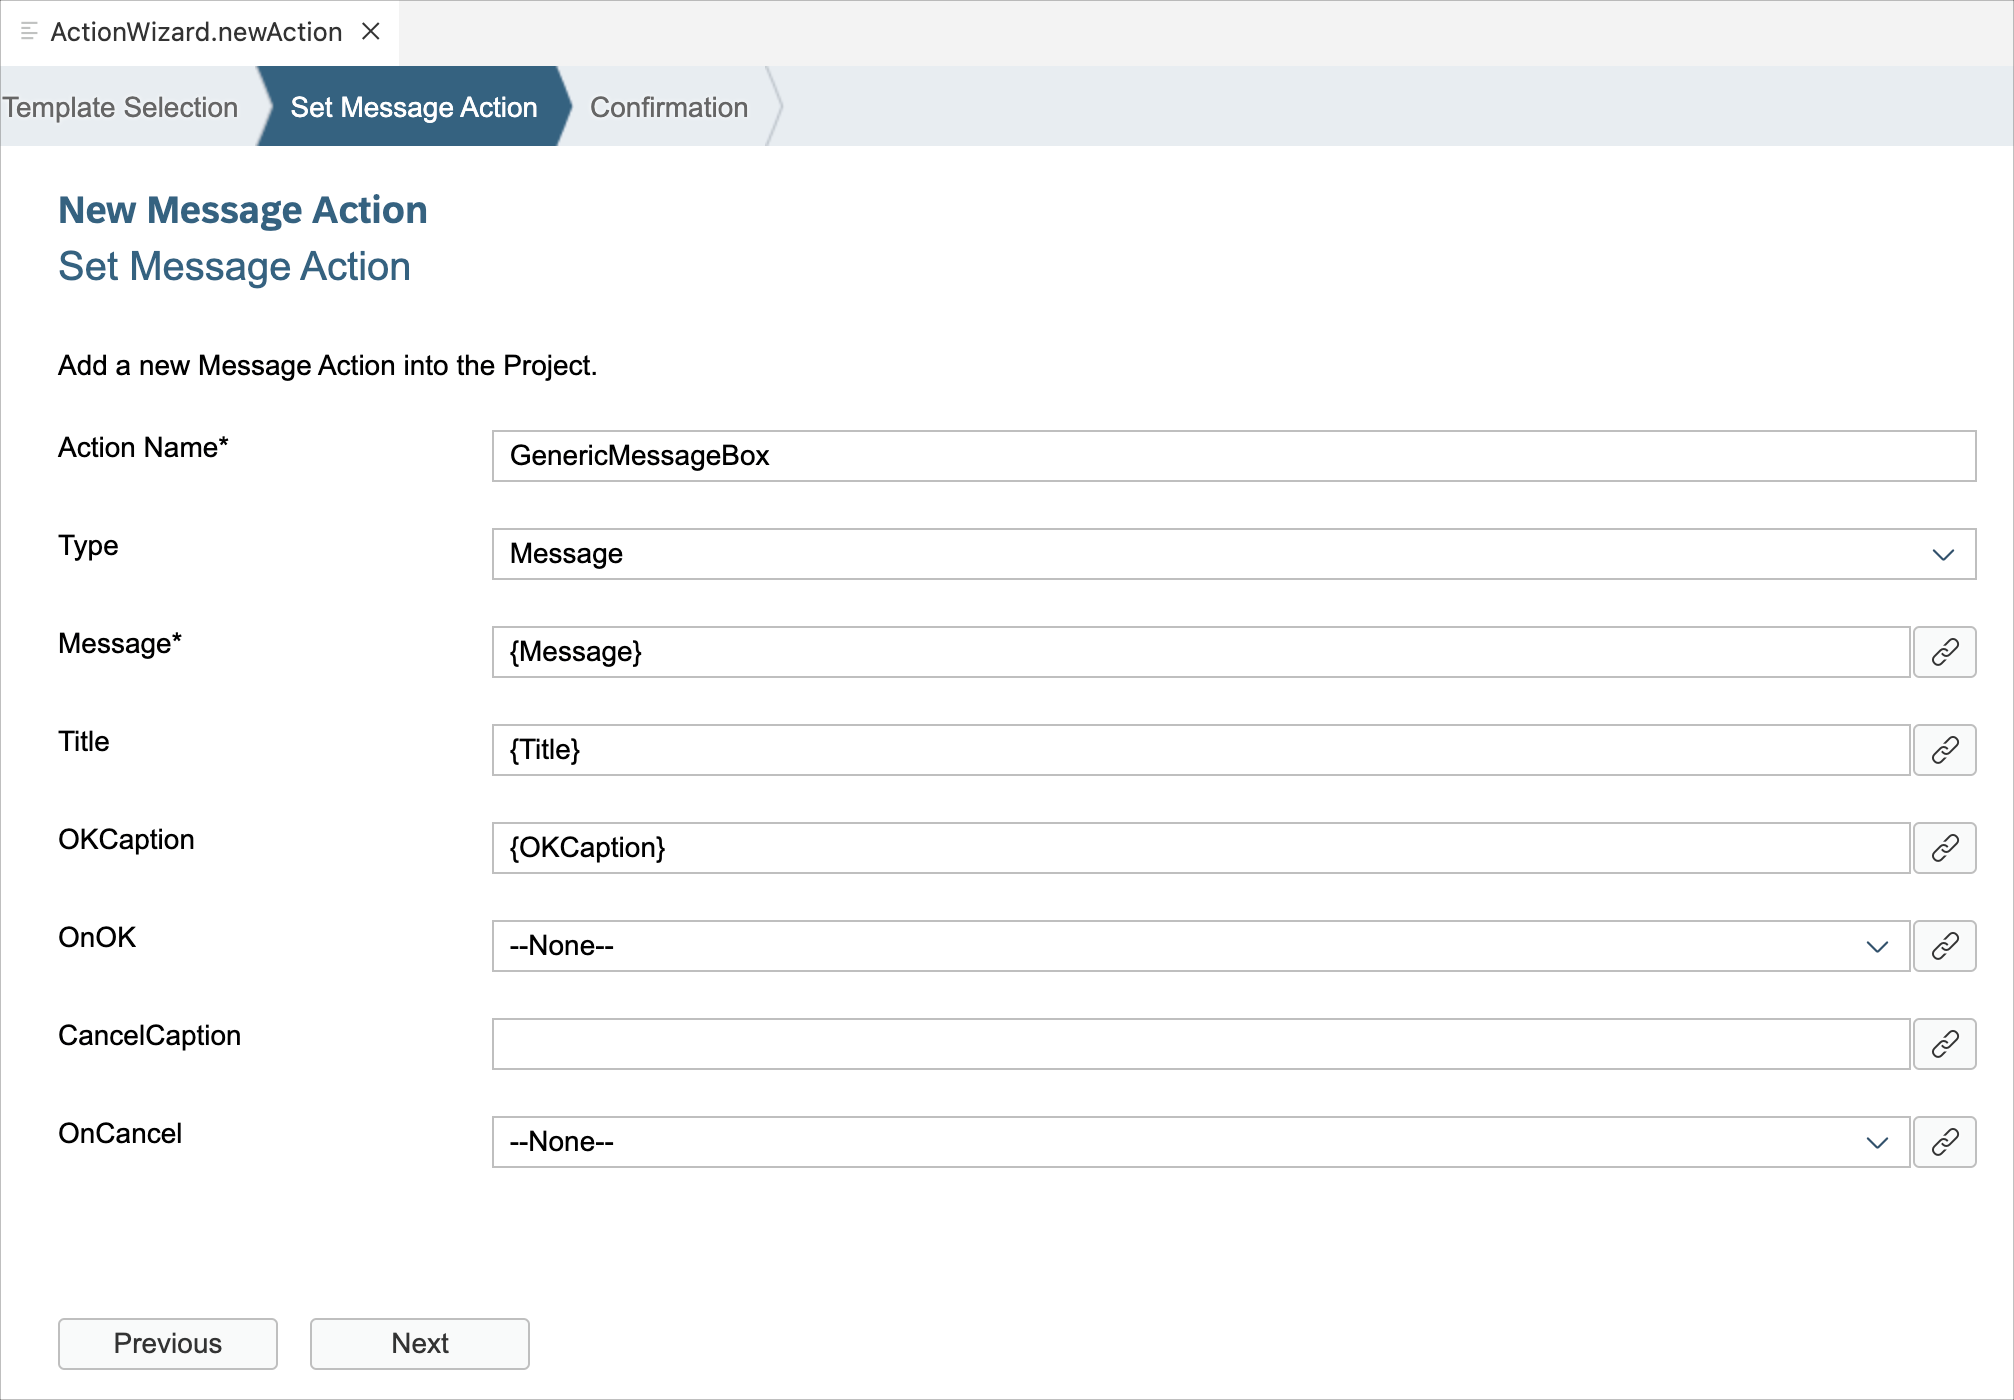
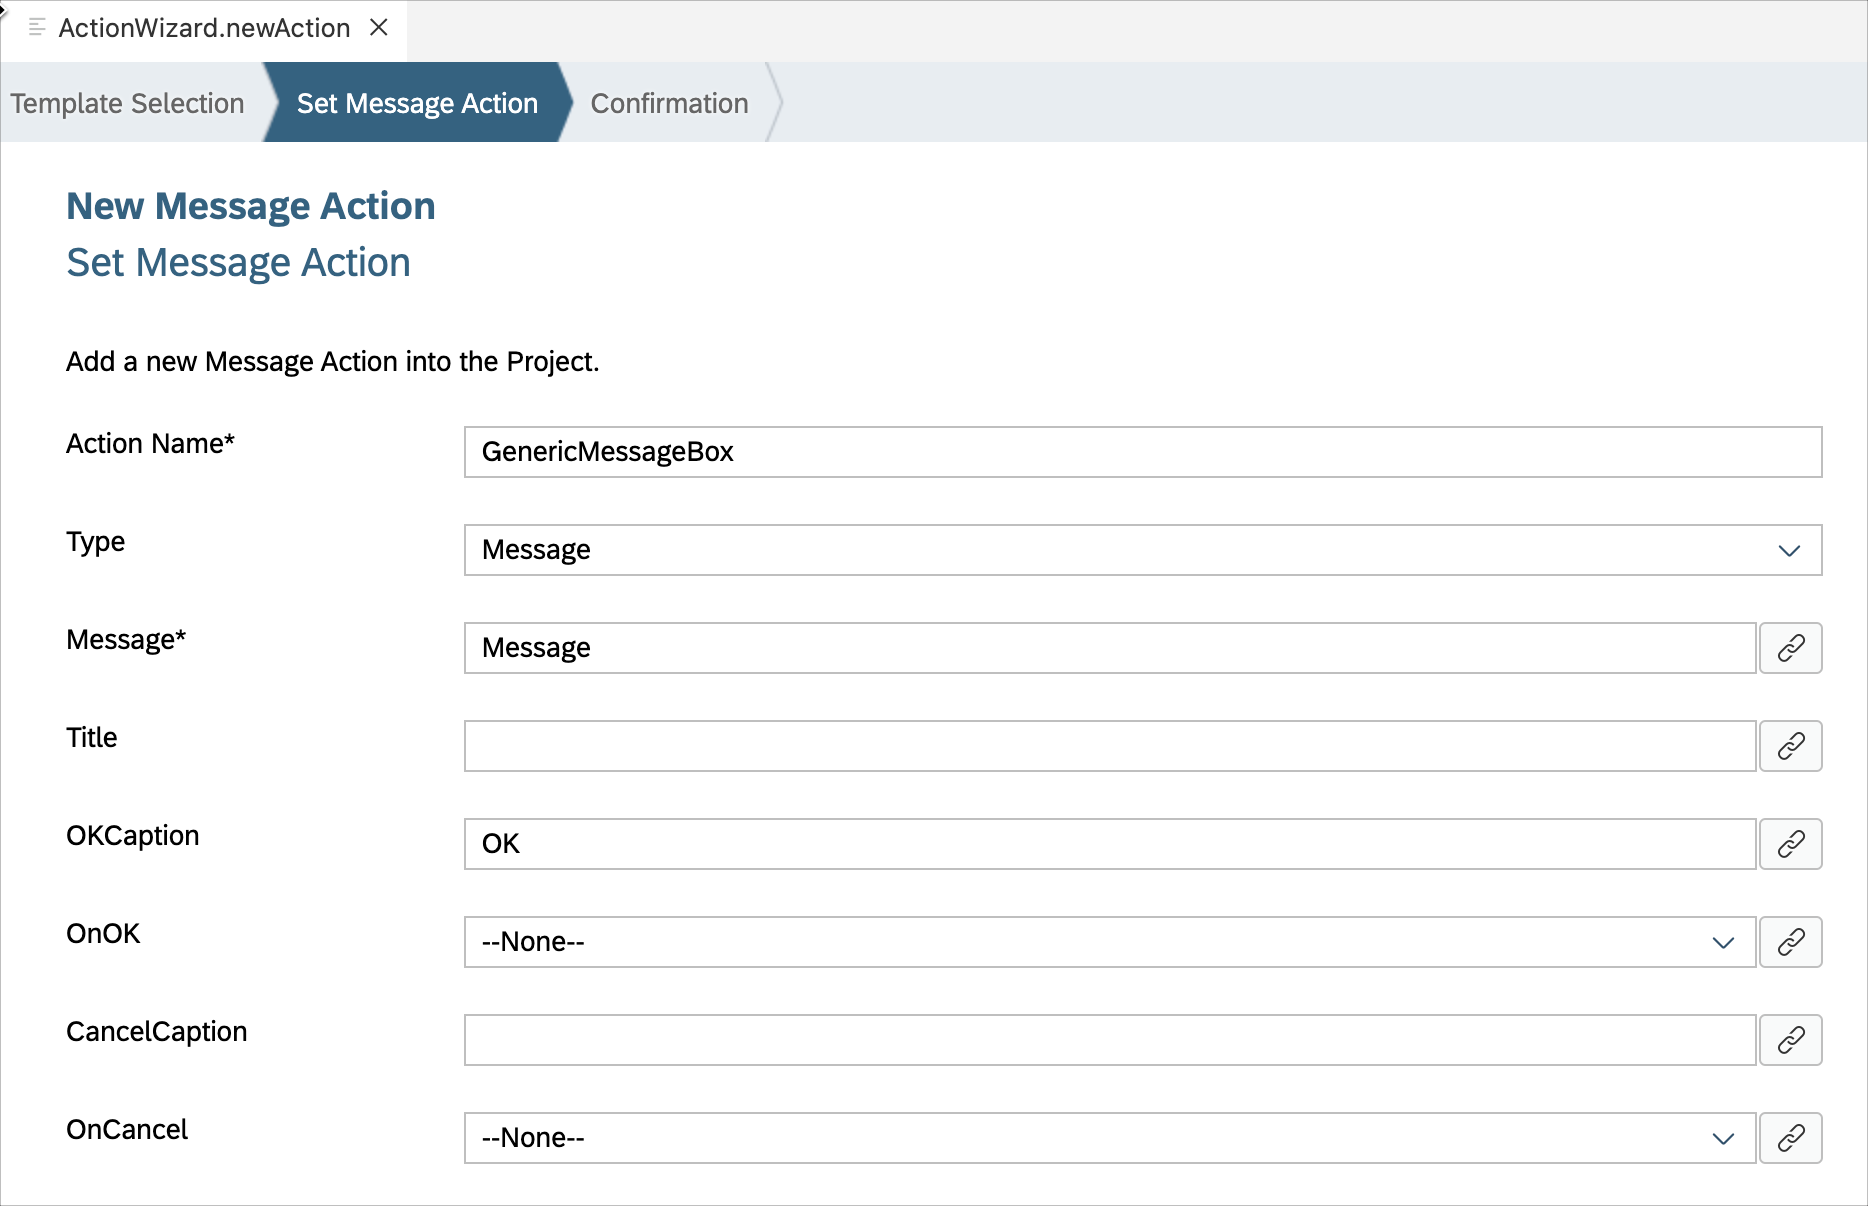
Updated screenshots

diff --git a/exercises/ex4/README.md b/exercises/ex4/README.md
@@ -30,9 +30,8 @@ You will update Product entity by uploading media to it.
     |----|----|
     | `Action Name`| GenericMessageBox |
     | `Type` | Select `Message` from the dropdown |
-    | `Message` | {Message} |
-    | `Title` | {Title} |
-    | `OKCaption` | {OKCaption} |
+    | `Message` | Message |
+    | `OKCaption` | OK |
     | `OnOK` | `--None--` |
     | `CancelCaption` | leave it blank |
     | `OnCancel` | `--None--` |
